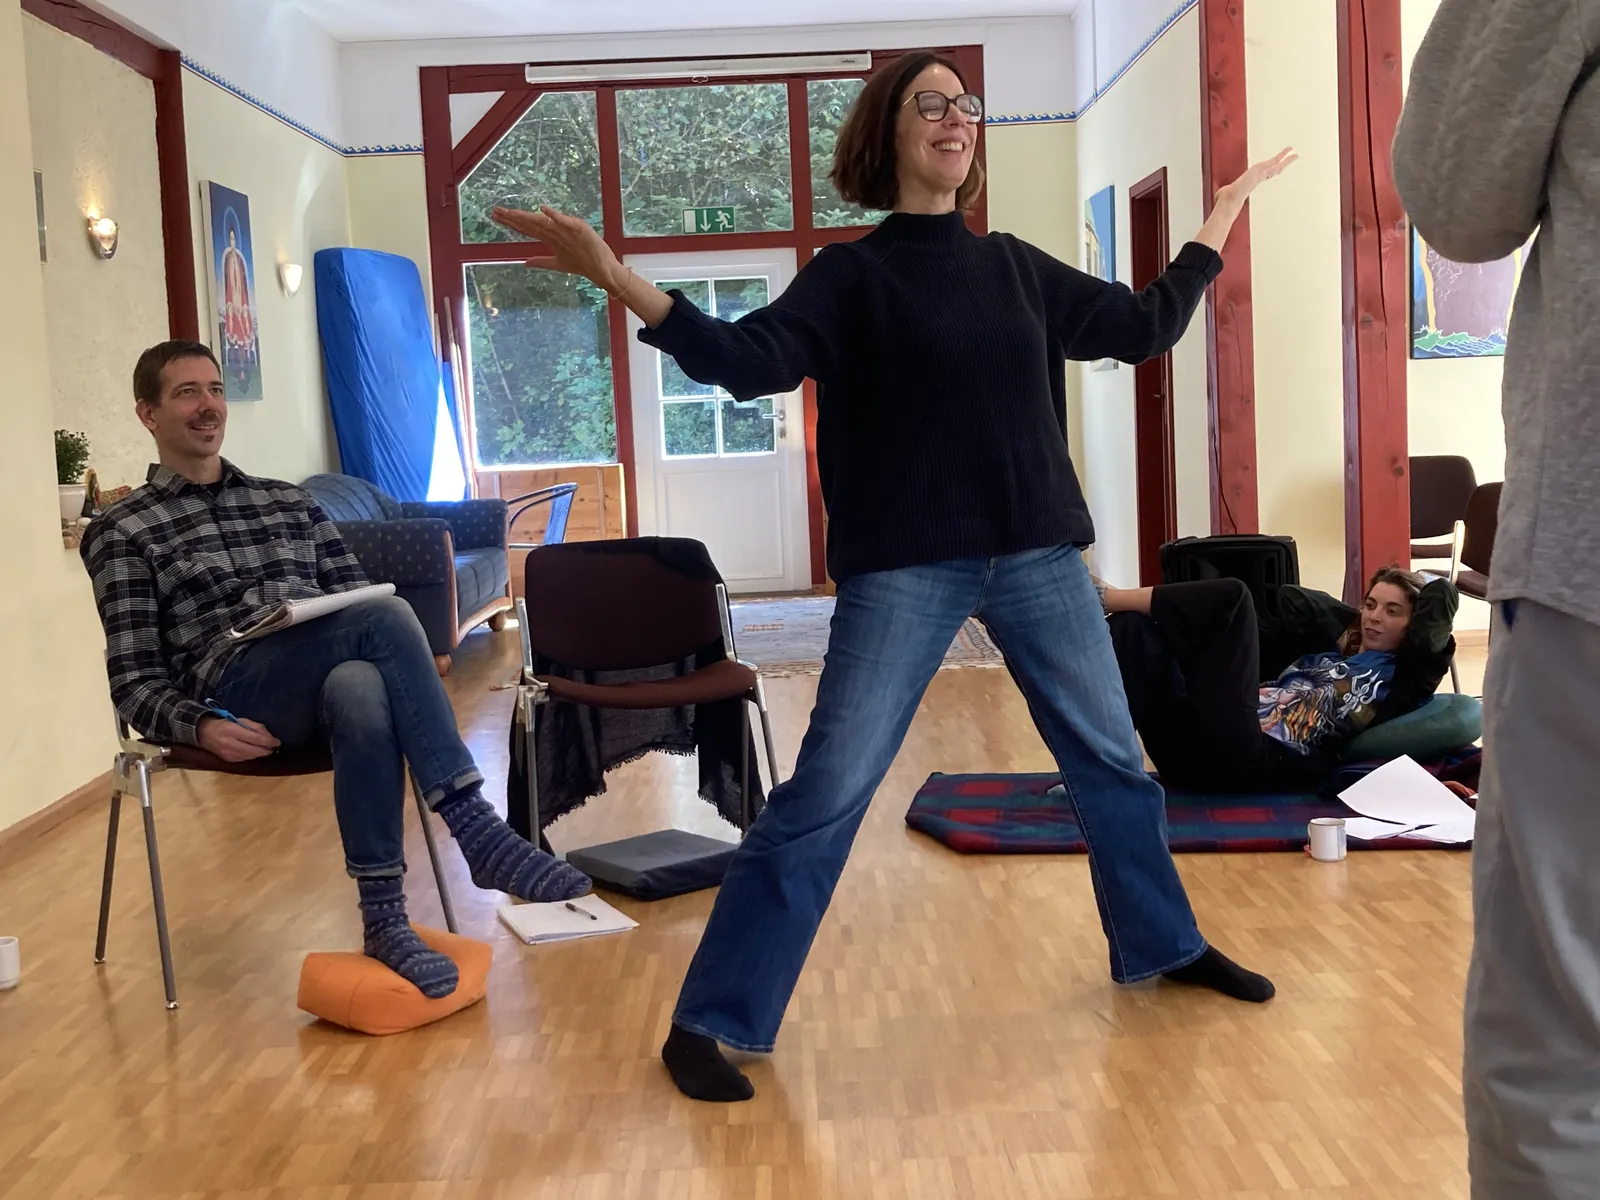
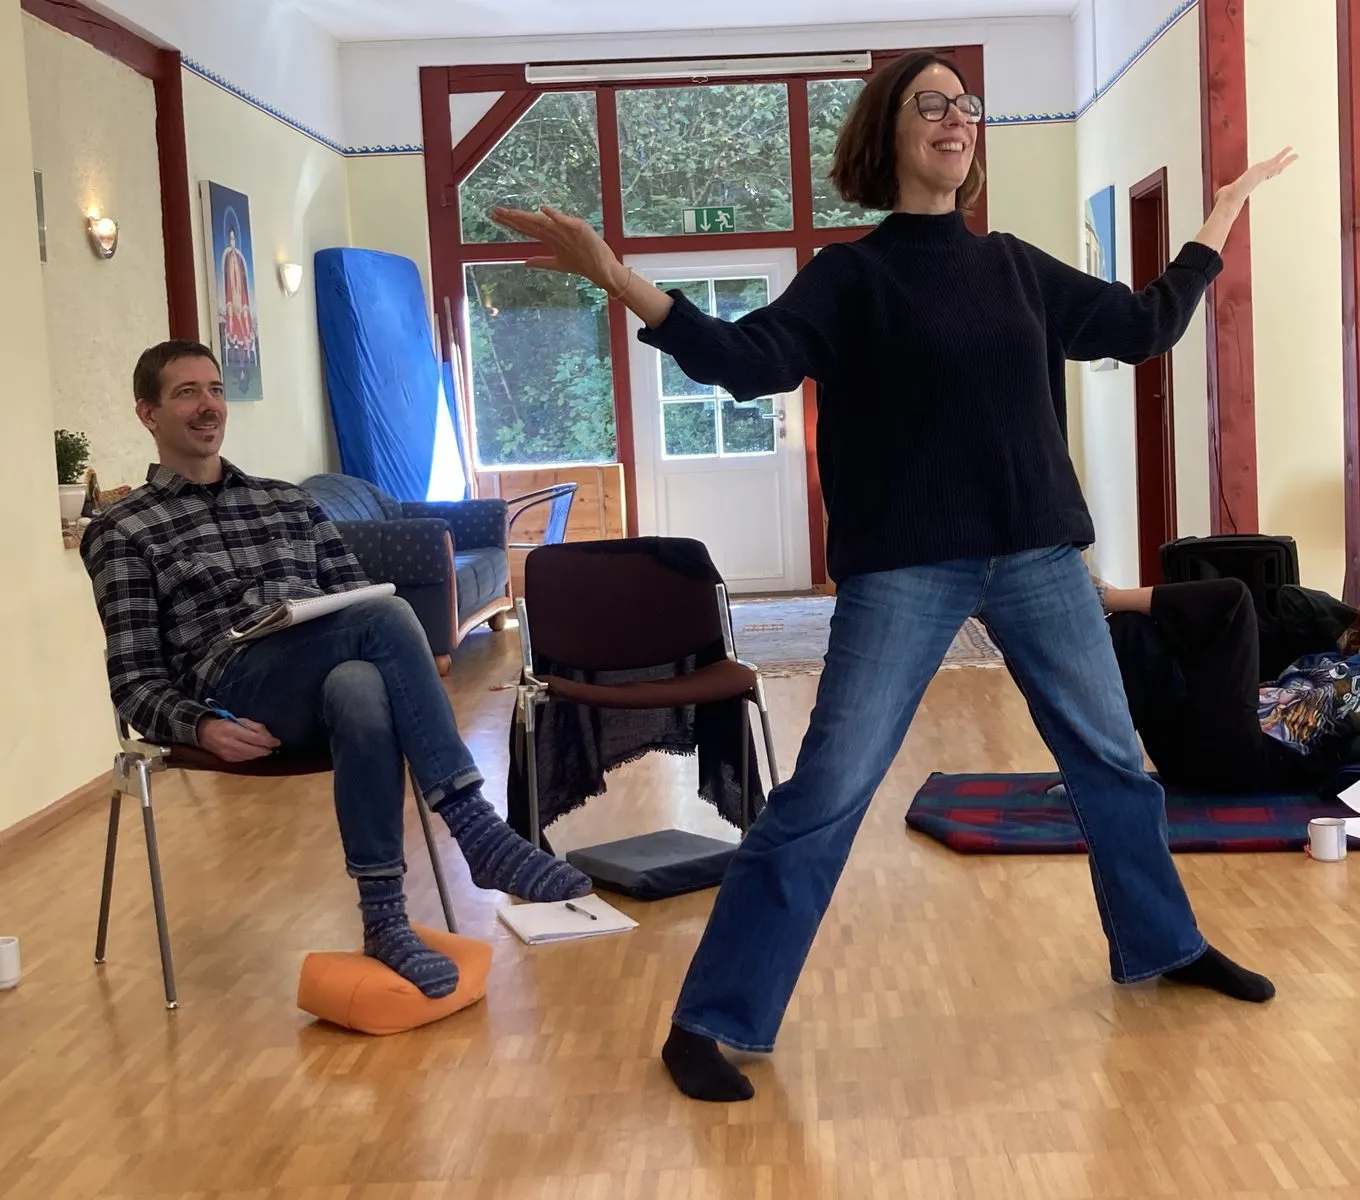
Crop the expressive-pose moment so a teacher who asked not to appear is out of frame

diff --git a/src/index.html b/src/index.html
@@ -362,7 +362,7 @@ ogType: website
             </picture>
             <picture class="snap-start shrink-0">
                 <source srcset="{{ '/assets/images/Community/community-expressive-pose.webp' | url }}" type="image/webp">
-                <img src="{{ '/assets/images/Community/community-expressive-pose.jpg' | url }}" alt="A participant opening her arms wide during an exercise" class="h-64 md:h-80 w-auto object-cover" width="1600" height="1200" loading="lazy">
+                <img src="{{ '/assets/images/Community/community-expressive-pose.jpg' | url }}" alt="A participant opening her arms wide during an exercise" class="h-64 md:h-80 w-auto object-cover" width="1360" height="1200" loading="lazy">
             </picture>
             <picture class="snap-start shrink-0">
                 <source srcset="{{ '/assets/images/Community/community-terrace-rest.webp' | url }}" type="image/webp">
